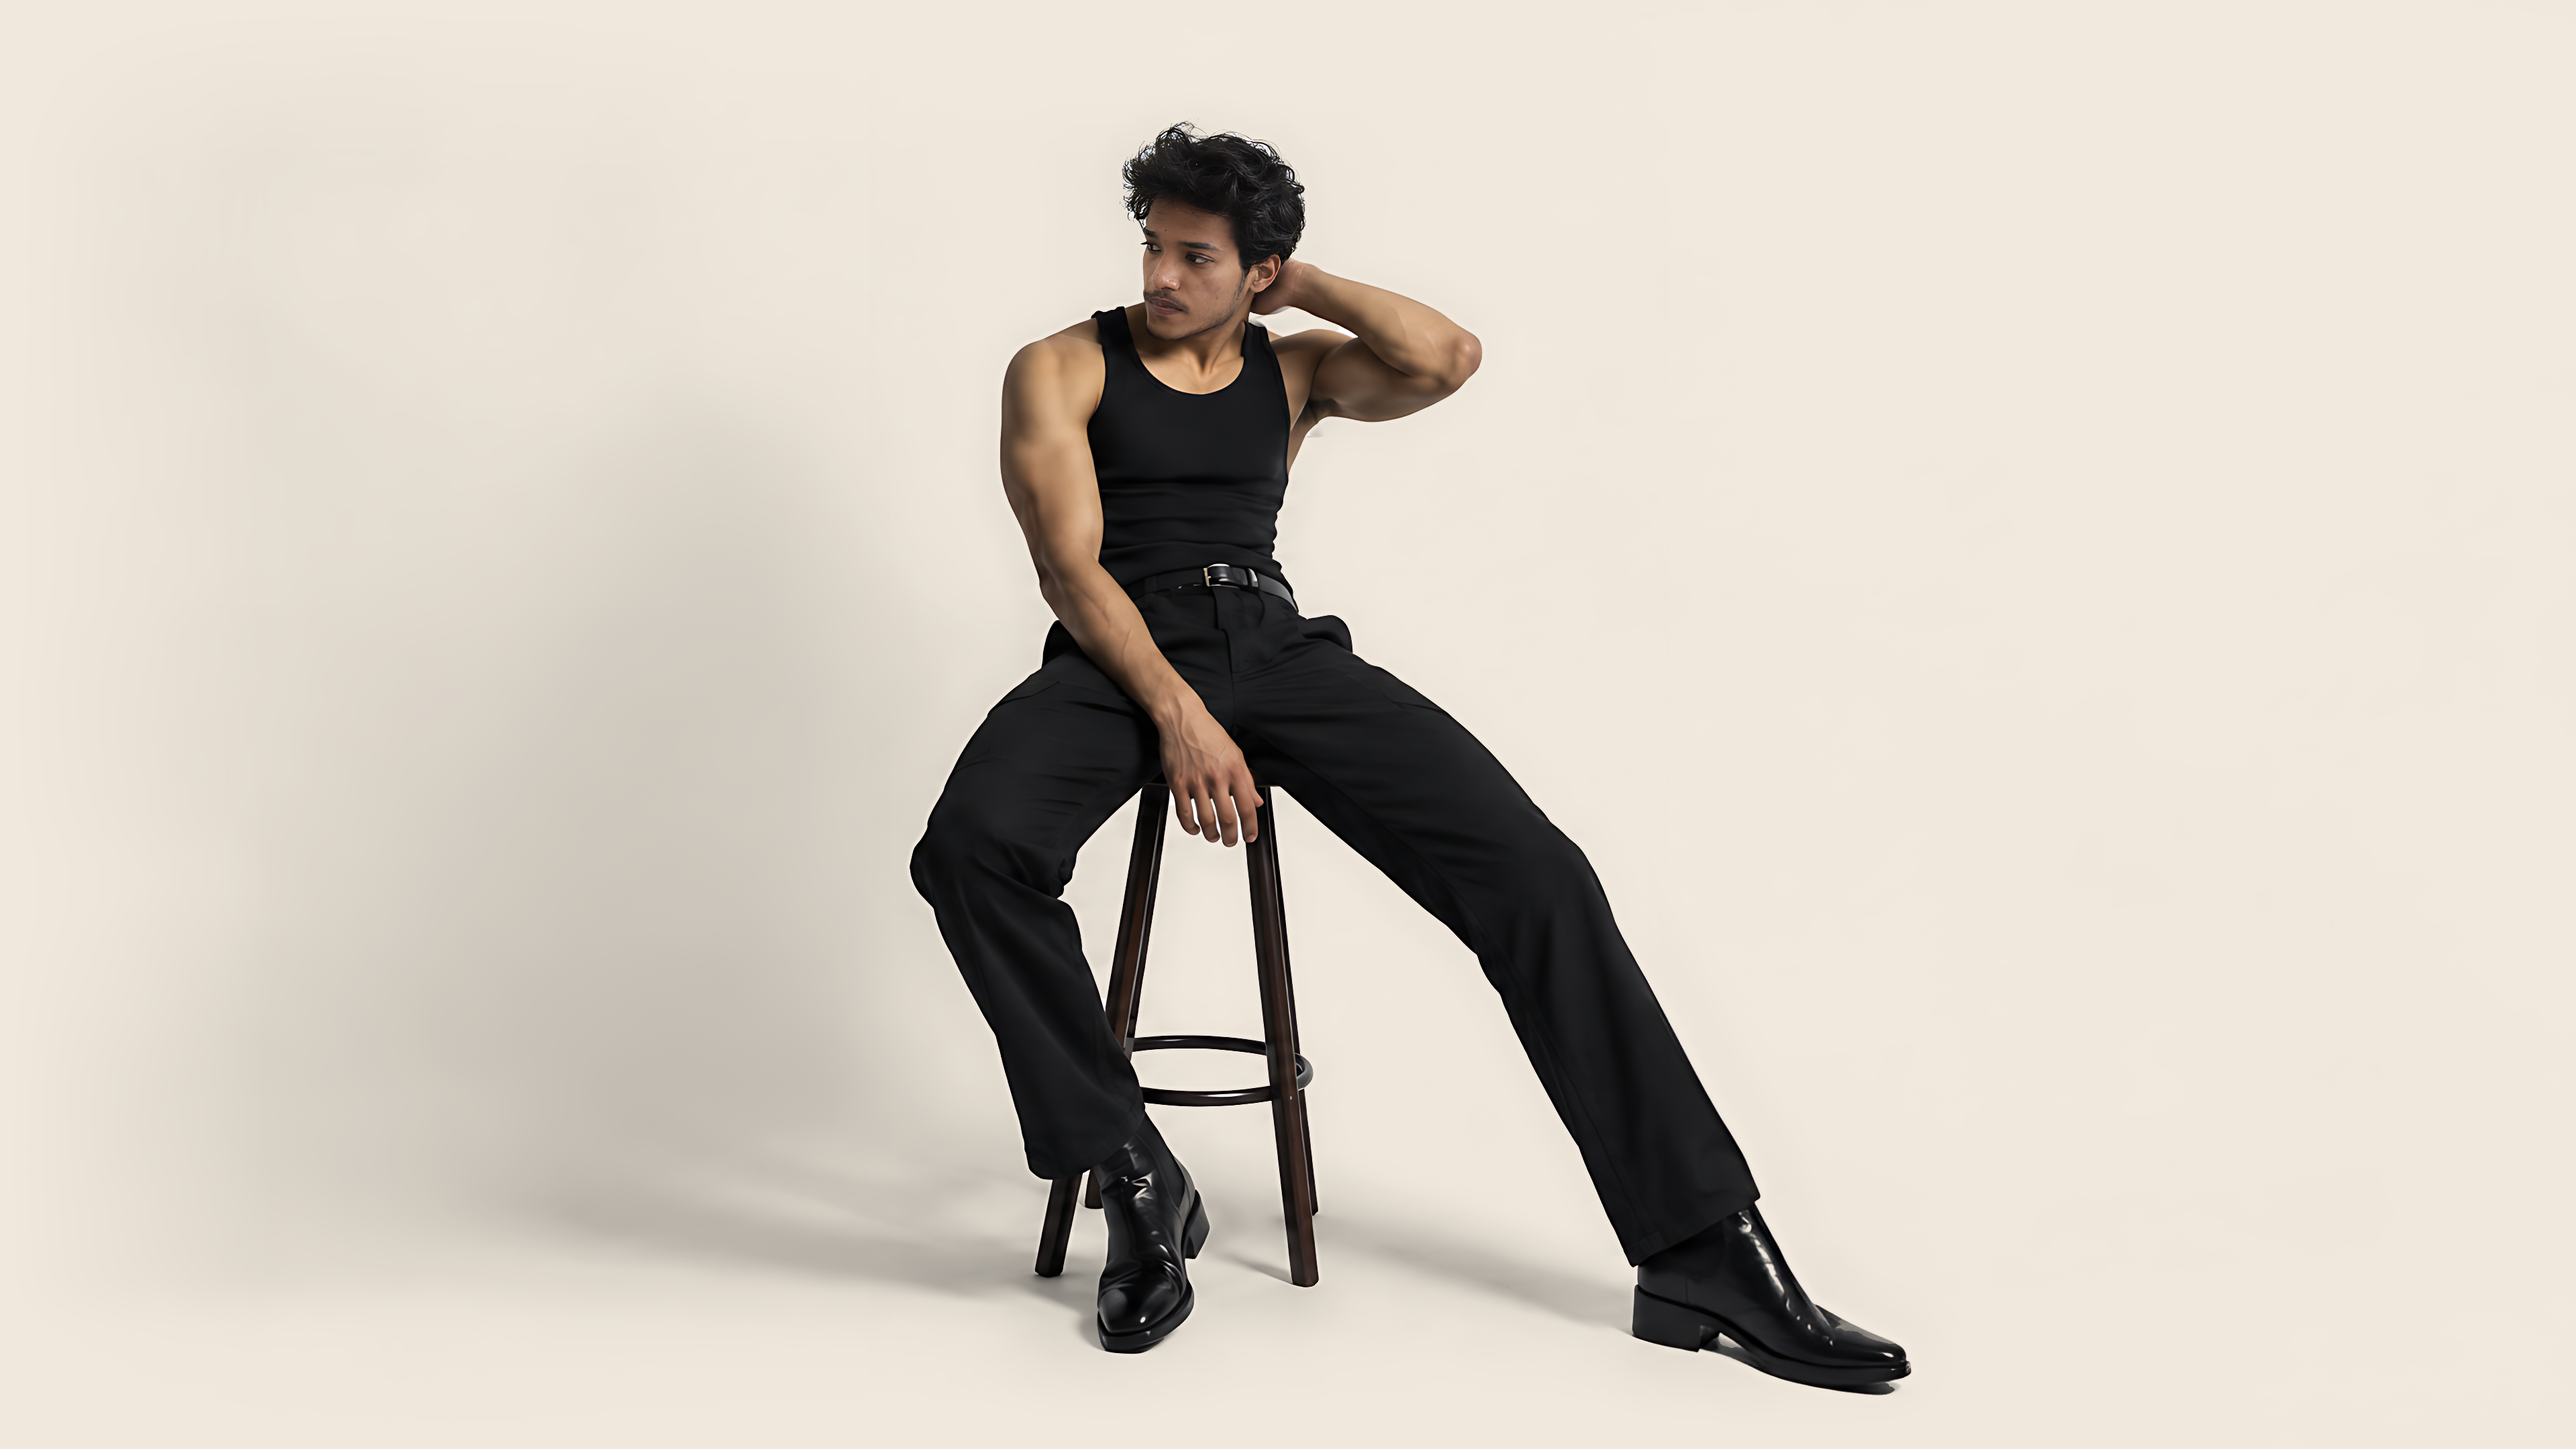
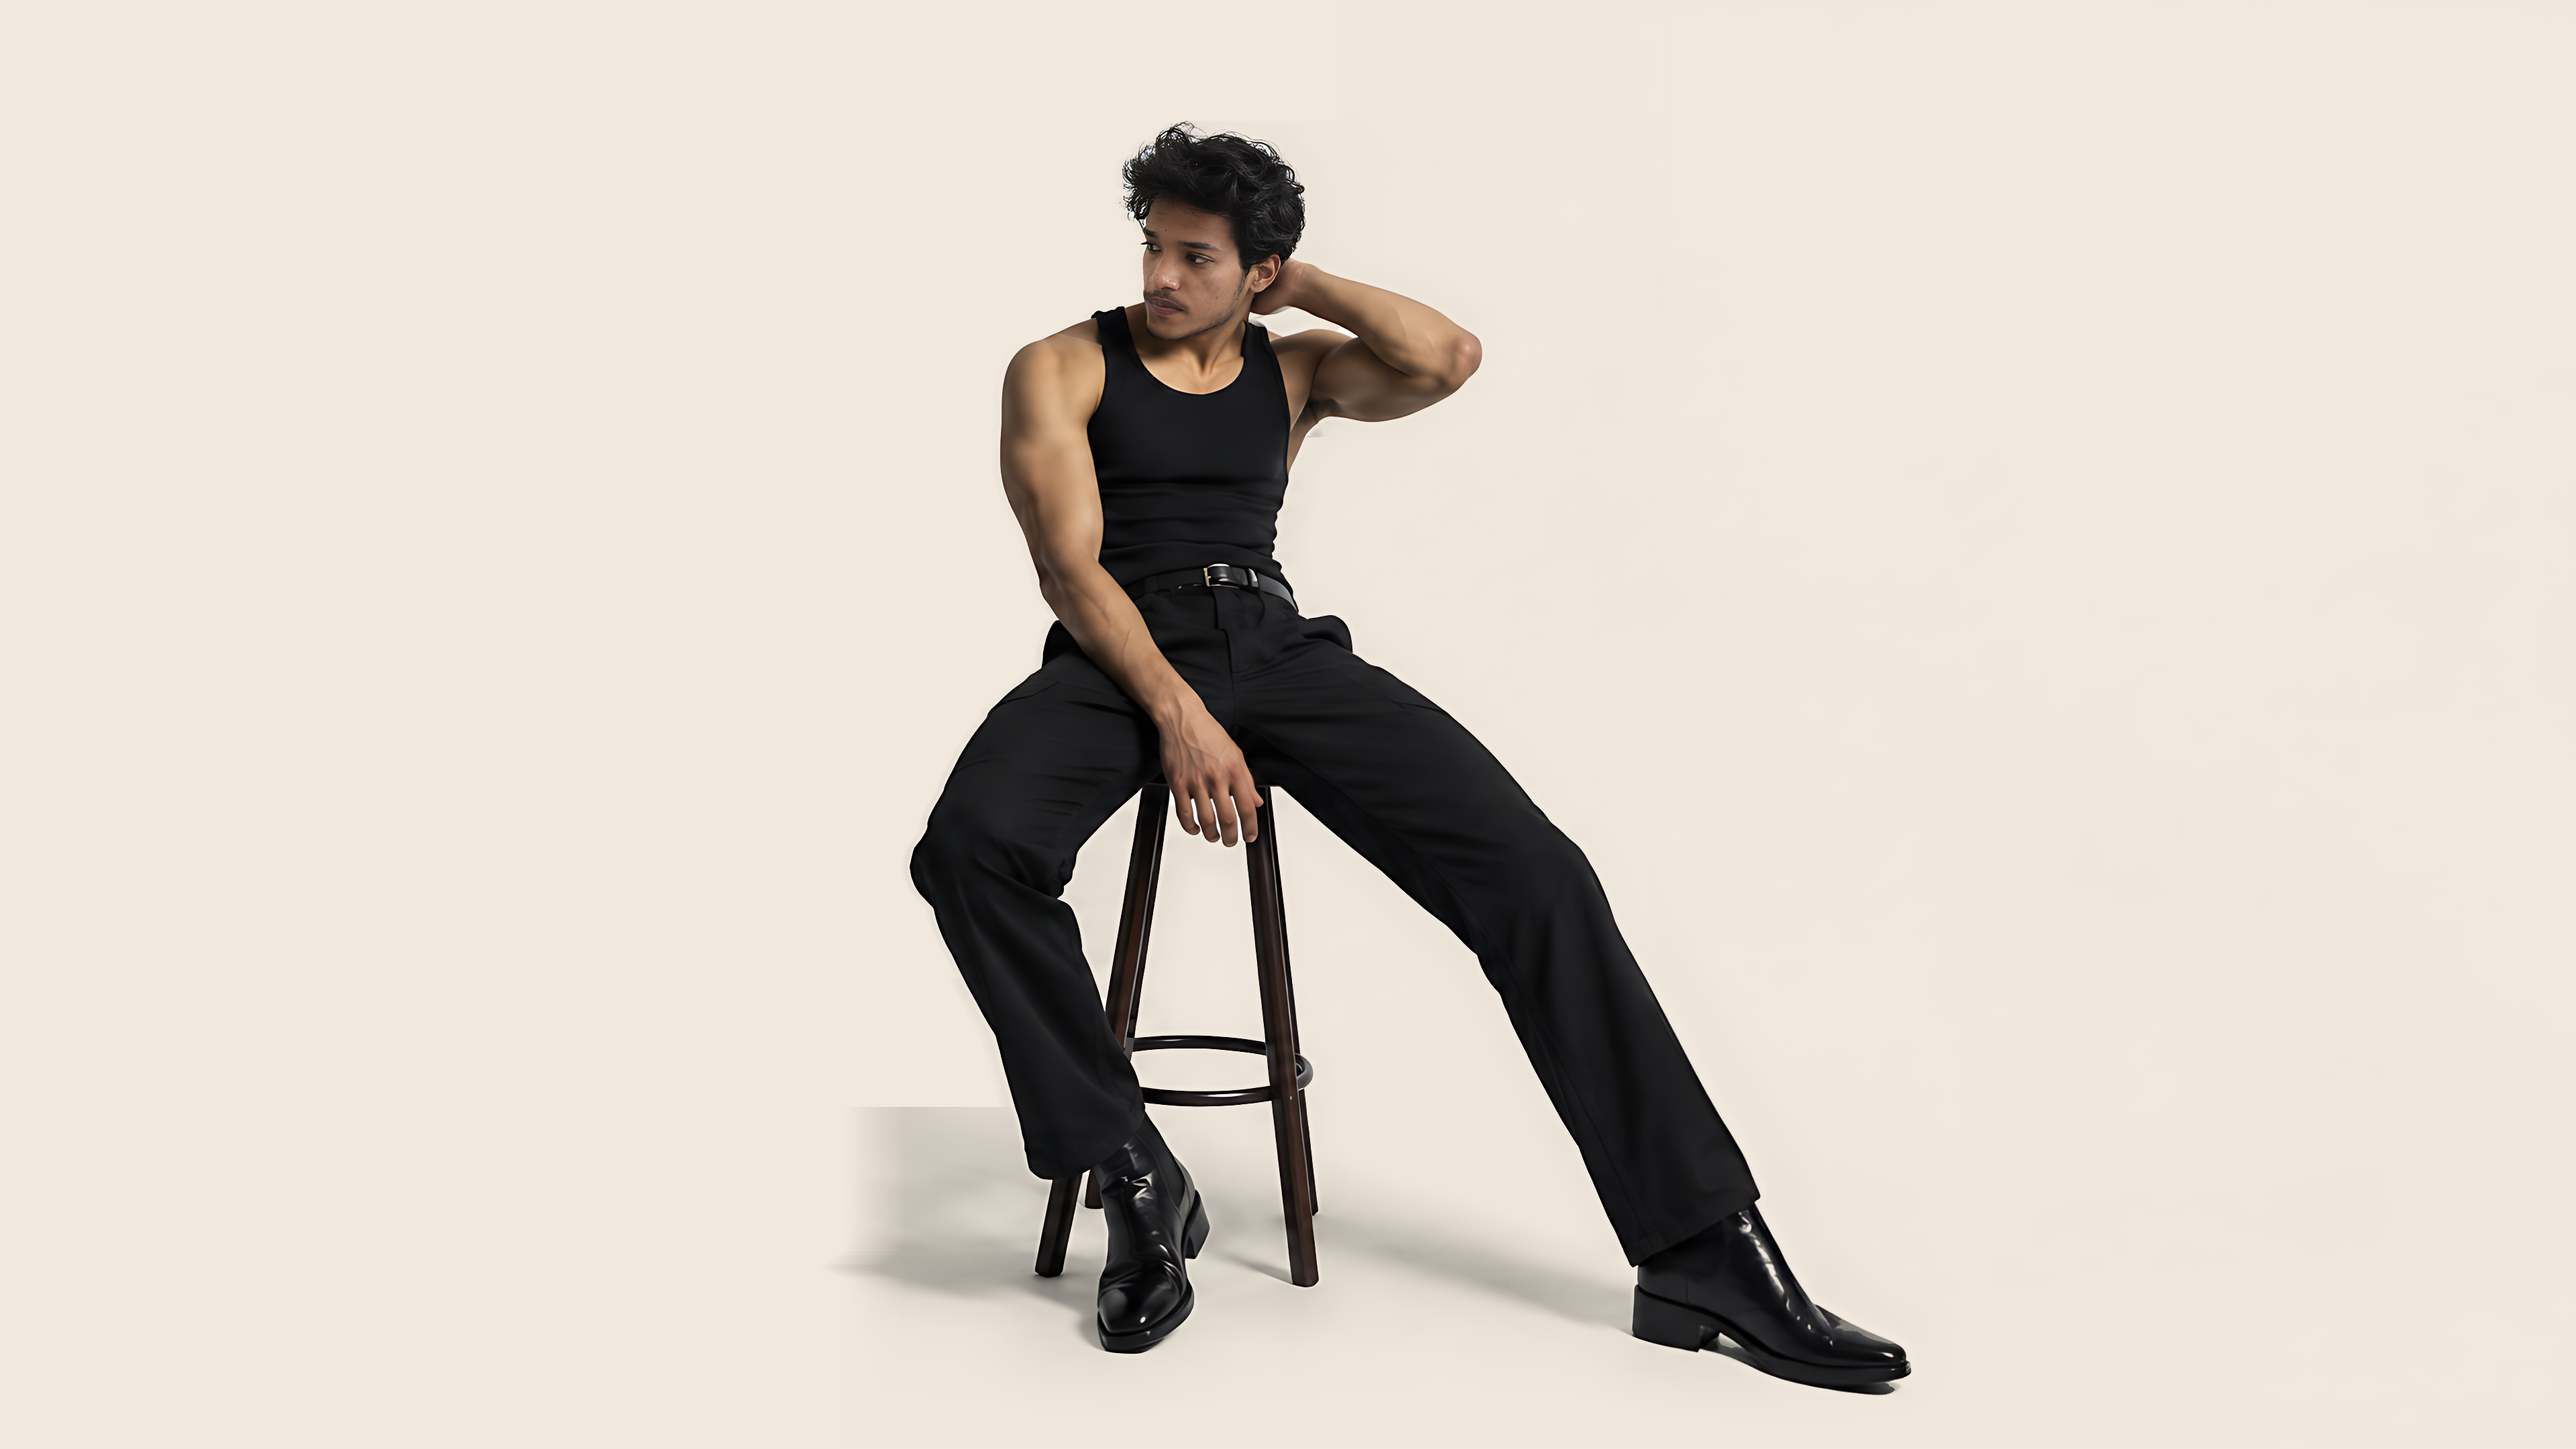
fix: resolve mobile collections left edge seam and increase model scale

Changed region(s): [[0.0938, 0.3412, 0.375, 0.8995]]

diff --git a/src/index.css b/src/index.css
@@ -2649,7 +2649,7 @@ html, body {
   .sli-collections-section {
     min-height: 100vh;
     min-height: 100dvh;
-    padding: 64px 16px 36px;
+    padding: 56px 0 36px;
     display: flex;
     flex-direction: column;
     justify-content: flex-start;
@@ -2673,12 +2673,12 @@ html, body {
   }
 
   .sli-collections-artboard {
-    height: clamp(240px, 38vh, 320px);
-    width: calc(clamp(240px, 38vh, 320px) * 16 / 9);
+    height: clamp(420px, 54vh, 480px);
+    width: calc(clamp(420px, 54vh, 480px) * 16 / 9);
     max-width: none;
-    margin: 16px auto;
-    /* Center the model torso & waist dead-center in the phone viewport */
-    transform: translateX(-17.5%);
+    margin: 8px auto 0 auto;
+    /* Horizontally center the model bounding box (stool leg to outstretched boot) symmetrically */
+    transform: translateX(calc(50vw - 54.74%));
     order: 2;
     flex-shrink: 0;
   }
@@ -2694,6 +2694,8 @@ html, body {
     align-items: center;
     order: 1;
     pointer-events: auto;
+    padding: 0 16px;
+    box-sizing: border-box;
   }
 
   .sli-col-intro-left {
